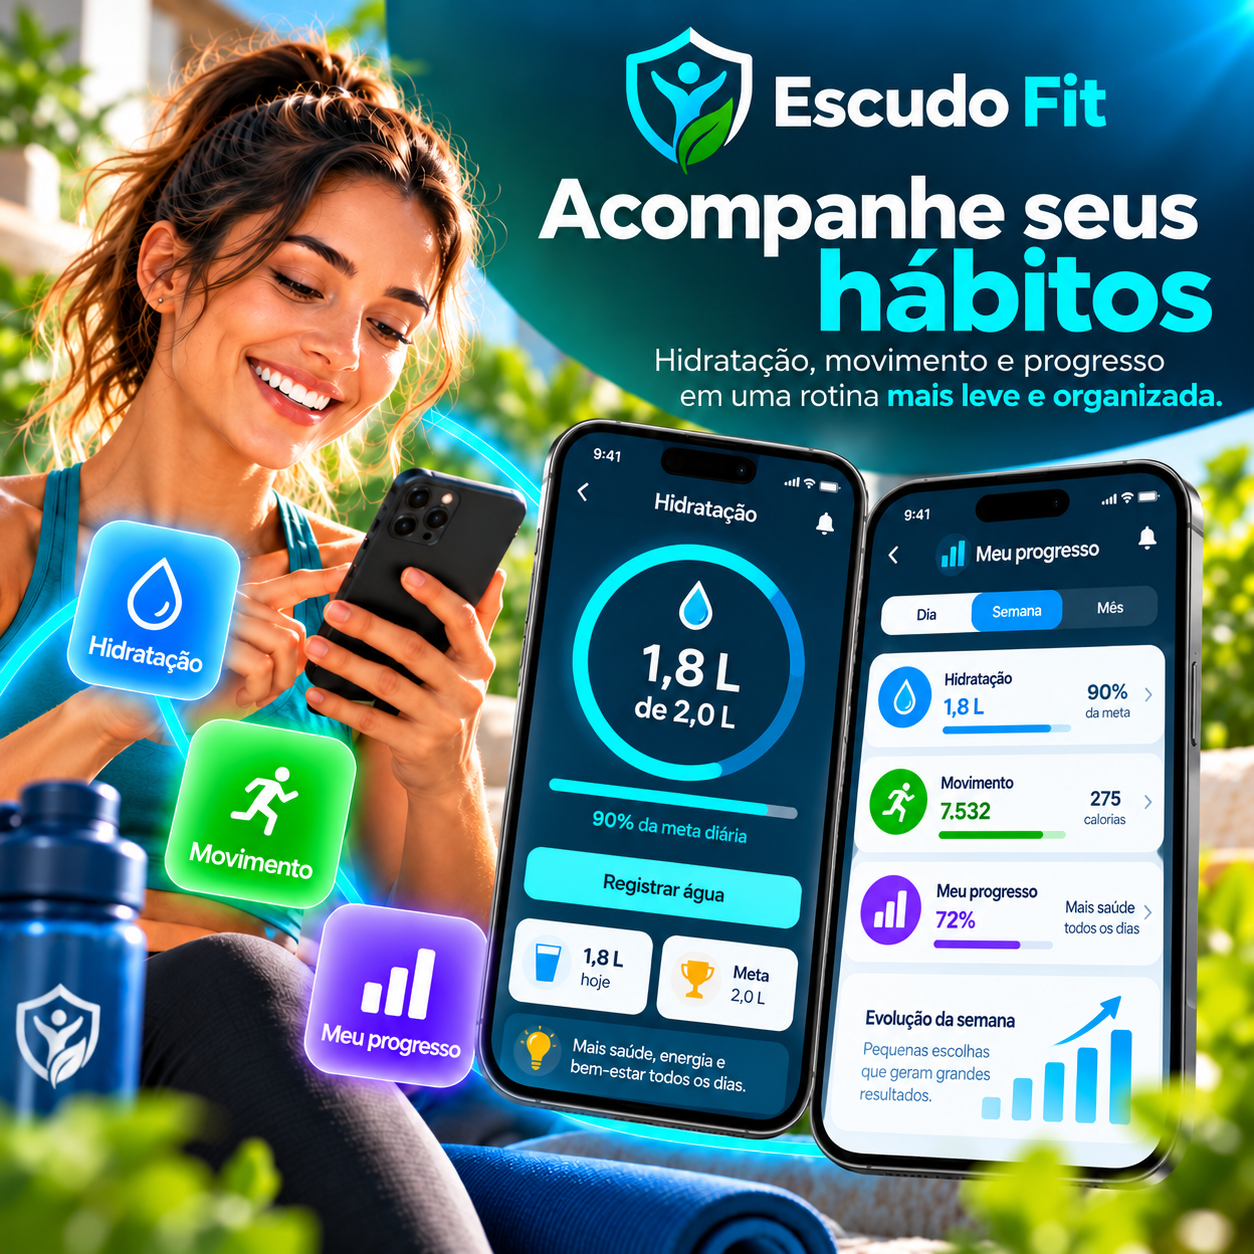
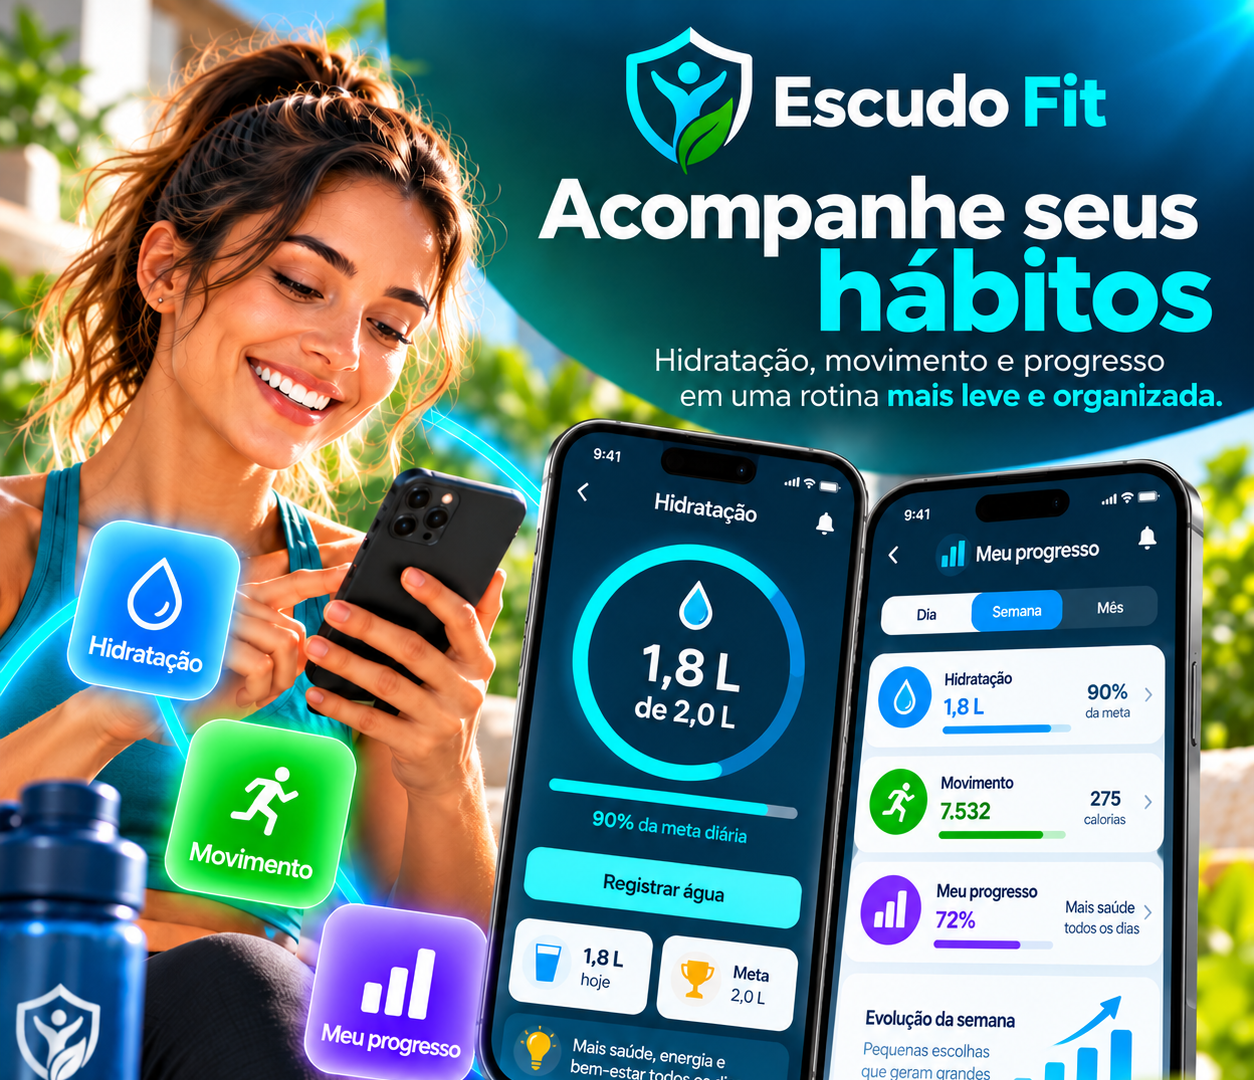
fix(web): refine premium gate and crop campaign CTA

diff --git a/app/app.js b/app/app.js
@@ -121,7 +121,7 @@ function showWebAccessGate(reason){
   const message=reason==='VERIFY'
     ? 'Não foi possível confirmar seu plano agora. Conecte-se à internet e verifique novamente. Seu histórico permanece preservado.'
     : reason==='FREE'
-      ? 'O acesso completo à Web é exclusivo para Premium, Vitalício ou período de teste válido. Solicite o Premium para continuar. Seu histórico permanece preservado.'
+      ? 'O acesso completo ao Escudo Fit Web é exclusivo para o plano Premium ou período de teste válido. Assine o Premium para continuar. Seu histórico permanece preservado.'
       : 'Seu período de teste ou acesso temporário terminou. Para continuar no Escudo Fit Web, assine o Premium. Seu histórico permanece preservado.';
   setText('webAccessTitle',reason==='VERIFY'?'Verificando seu acesso':reason==='FREE'?'Escudo Fit Web Premium':'Seu período de acesso terminou');
   setText('webAccessMessage',message);

diff --git a/app/sw.js b/app/sw.js
@@ -1,4 +1,4 @@
-const CACHE='escudo-fit-web-v31-approved-campaign-v1';
+const CACHE='escudo-fit-web-v33-carousel-refine-v1';
 const ASSETS=[
   './',
   './index.html',
@@ -6,7 +6,7 @@ const ASSETS=[
   './history-sync-contract.js?v=web-v43-sync-recovery-20',
   './history-backup-bridge.js?v=web-v43-sync-recovery-20',
   './web-reminders.js?v=web-v43-sync-recovery-20',
-  './app.js?v=web-v43-sync-recovery-20',
+  './app.js?v=web-v43-sync-recovery-21',
   './body-map.js?v=web-v43-sync-recovery-20',
   './android-icon.svg',
   './icon-approved-v43.png',
